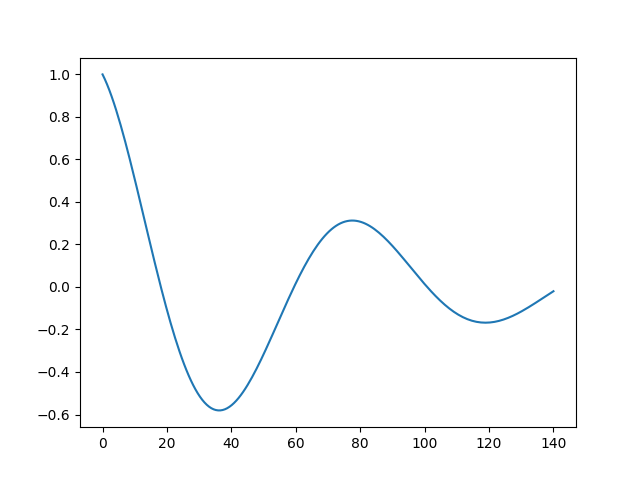
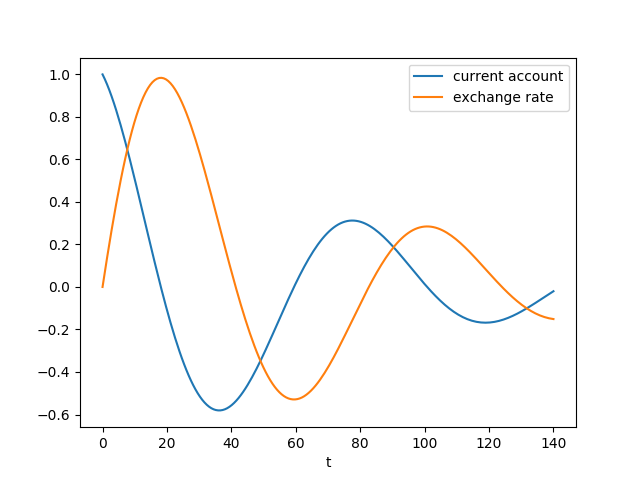
-

diff --git a/en/2020/06/exch.md b/en/2020/06/exch.md
@@ -15,8 +15,10 @@ current account imbalances are financed by it.
 
 $c(t)$: International payment flows
 
+International cash is a central determinant of the exchange rate.
+
 $$
-\dot{q} \approx \xi c_1(t), \qquad (5)
+\dot{q} \approx -\xi c(t), \qquad (5)
 $$
 
 We assume that the real exchange rate is the major driving force
@@ -60,13 +62,12 @@ $$
 All models use the following constants,
 
 $$
-\xi = 0.1, \phi_1 = 0.03, \phi_2 = 0.06, \phi_3 = 0.1, \eta = 0.05
+\xi = 0.1, \phi_1 = 0.03, \phi_2 = 0.06, \phi_3 = 0.1, \gamma = 0.05
 $$
 
 Model 1
 
-Use (5) and (6a). First model takes (5) to be $\dot{q} = \xi c(t)$.
-
+Use (5) and (6a). 
 
 $$
 q(0) = 0, z(0) = 1
@@ -74,9 +75,11 @@ $$
 
 ```python
 from scipy.integrate import odeint
+import pandas as pd
 
 phi1 = 0.03
 phi2 = 0.06
+gamma = 0.05
 xi = 0.1
 
 def dmod1(y, t):
@@ -84,11 +87,13 @@ def dmod1(y, t):
     return [-(phi1*z) - (phi2*q), xi*z]
 
 t = np.linspace(0, 140, 200)
-
 y0 = [1.0,0.0]
-
 sol = odeint(dmod1, y0, t)
-plt.plot(t,sol[:,0])
+df = pd.DataFrame( sol )
+df.columns = ['current account','exchange rate']
+df['t'] = t
+df = df.set_index('t')
+df.plot()
 plt.savefig('mod1.png')
 ```
 
@@ -96,34 +101,54 @@ plt.savefig('mod1.png')
 
 ### NEER
 
-[Def](https://www.investopedia.com/terms/n/neer.asp): The nominal
-effective exchange rate (NEER) is an unadjusted weighted average rate
+[Def](https://www.investopedia.com/tervms/n/neer.asp): The nominal
+effective exchange rate NEER is an unadjusted weighted average rate
 at which one country's currency exchanges for a basket of multiple
 foreign currencies. The nominal exchange rate is the amount of
 domestic currency needed to purchase foreign currency. In economics,
 the NEER is an indicator of a country's international competitiveness
-in terms of the foreign exchange (forex) market
+in terms of the foreign exchange -forex- market
 
-[Data](https://www.bruegel.org/publications/datasets/real-effective-exchange-rates-for-178-countries-a-new-database) (for every country goes back to 70s),
+[Data](https://www.bruegel.org/publications/datasets/real-effective-exchange-rates-for-178-countries-a-new-database),
+for every country goes back to 70s,
+
+```python
+import pandas as pd, datetime
+from pandas_datareader import data
+start=datetime.datetime(1977, 1, 1)
+end=datetime.datetime(1991, 1, 1)
+# german current account
+df2 = data.DataReader(['BPBLTT01DEQ188S'], 'fred', start, end)
+```
 
 ```python
 import pandas as pd, zipfile
 with zipfile.ZipFile('/tmp/REER_database_ver6Apr2020.zip', 'r') as z:
-    df =  pd.read_excel(z.open('REER_database_ver6Apr2020.xls'),sheet_name='NEER_MONTHLY_38')
+    df1 =  pd.read_excel(z.open('REER_database_ver6Apr2020.xls'),sheet_name='NEER_MONTHLY_38')
 ```
 
 ```python
-df1 = df[[df.columns[0], 'NEER_38_JP']]
-df1.columns = ['date','yen']
+df1 = df1[[df1.columns[0], 'NEER_38_DE']]
+df1.columns = ['date','DE']
 df1['date'] = df1['date'].str.replace('M','')
 df1['date'] = pd.to_datetime(df1['date'],format="%Y%m")
 df1 = df1.set_index('date')
-df1 = df1[(df1.index > '1969-01-01') & (df1.index < '1980-01-01')]
-df1.plot()
-plt.savefig('neer-jp.png')
+df1 = np.log(df1)
+df1 = df1[(df1.index > '1977-01-01') & (df1.index < '1991-01-01')]
 ```
 
-![](neer-jp.png)
+```python
+df = df2.join(df1)
+ax1 = df.BPBLTT01DEQ188S.plot(color='blue', grid=True, label='current account')
+ax2 = df.DE.plot(color='red', grid=True, label='neer',secondary_y=True)
+h1, l1 = ax1.get_legend_handles_labels()
+h2, l2 = ax2.get_legend_handles_labels()
+plt.legend(h1+h2, l1+l2, loc=2)
+plt.savefig('neer-de.png')
+```
+
+![](neer-de.png)
+
 
 
 References
@@ -131,3 +156,4 @@ References
 [1] Muller-Plantenberg, [PhD Dissertation](http://etheses.lse.ac.uk/2681/)
 
 [2] Muller-Plantenberg, [Balance of payments accounting and exchange rate dynamics](https://www.researchgate.net/publication/46490787_Balance_of_payments_accounting_and_exchange_rate_dynamics)
+
